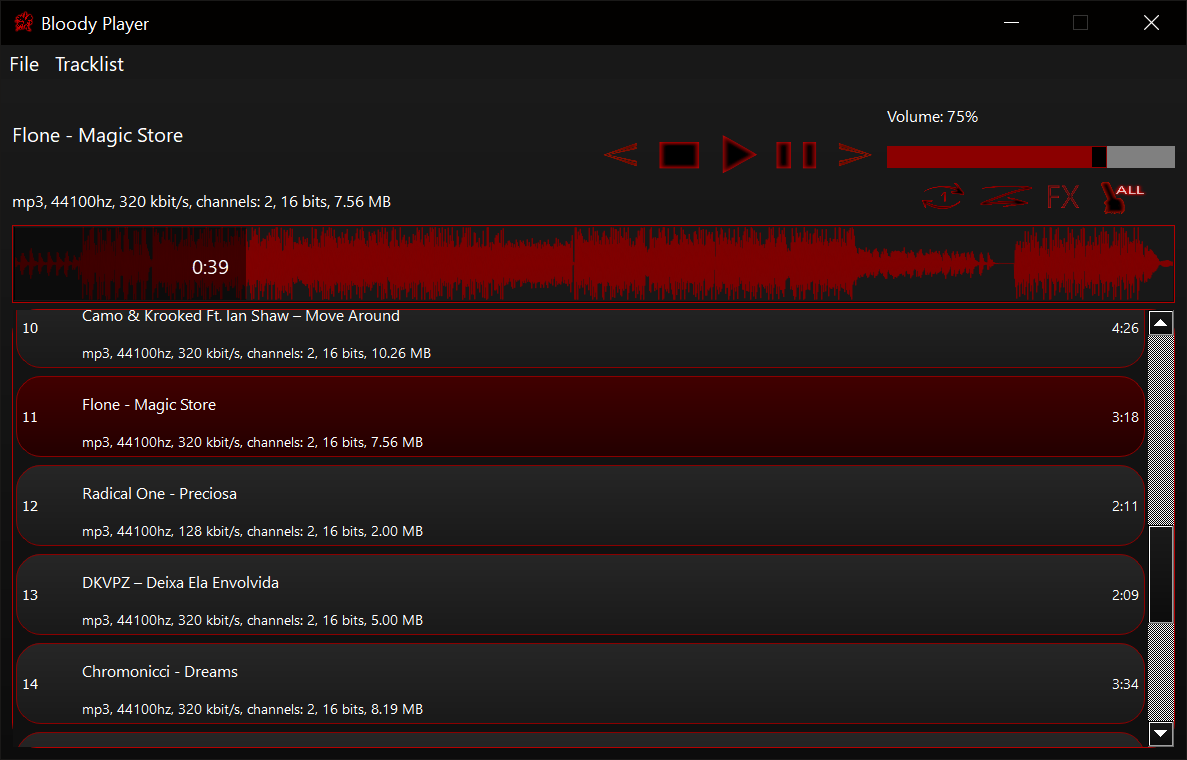
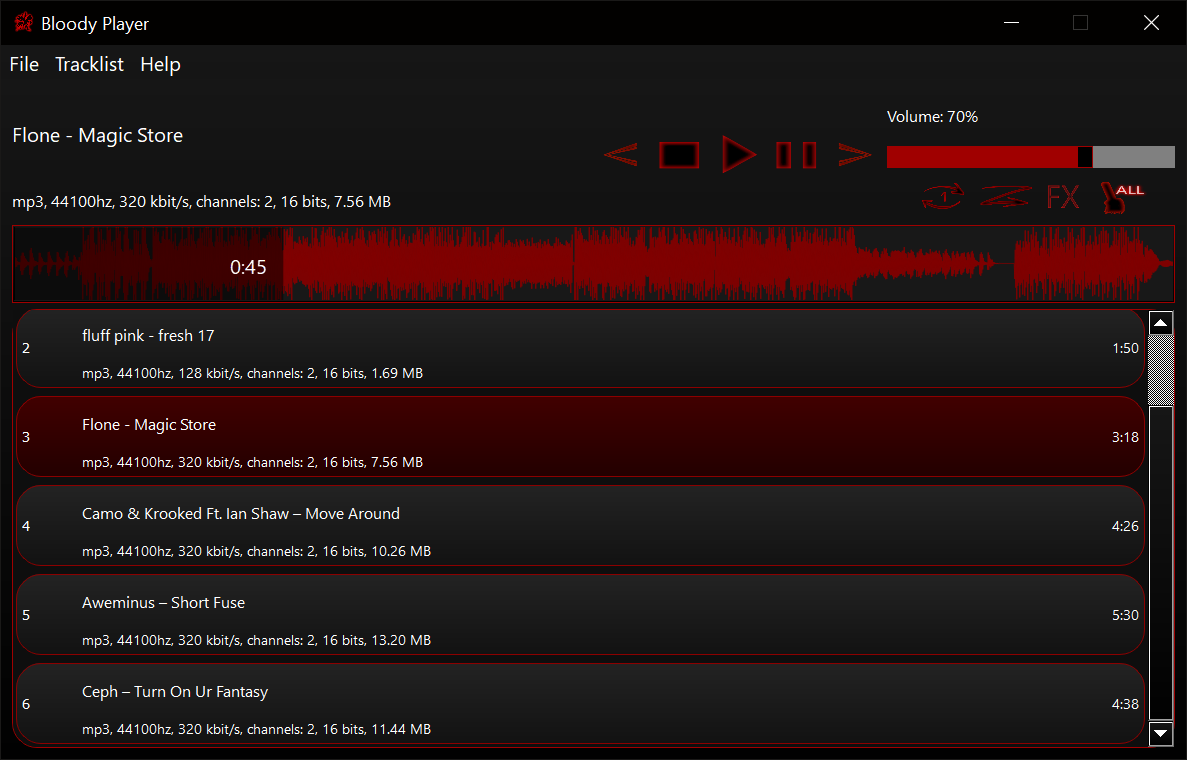
Seems like a rare crash that may occur after a track(s) was loaded has been fixed.

diff --git a/src/Model/AudioService/audioservice.cpp b/src/Model/AudioService/audioservice.cpp
@@ -160,14 +160,16 @@ void AudioService::FMODinit()
 
 void AudioService::addTrack(const wchar_t *pFilePath)
 {
-    Track* pNewTrack = new Track(pMainWindow, pSystem);
-    if ( !pNewTrack->setTrack(pFilePath) )
+    Track* pNewTrack = new Track(pFilePath, pMainWindow, pSystem);
+    if ( !pNewTrack->setupTrack() )
     {
         delete pNewTrack;
         return;
     }
 
     std::wstring wPathStr(pFilePath);
+
+
 
     // Get track name
     size_t iNameStartIndex = 0;
@@ -179,12 +181,15 @@ void AudioService::addTrack(const wchar_t *pFilePath)
             break;
         }
     }
+
     std::wstring trackName = L"";
     for (size_t i = iNameStartIndex; i < wPathStr.size() - 4; i++)
     {
         trackName += wPathStr[i];
     }
     if (trackName.back() == L'.') trackName.pop_back();
+
+
 
     // Get track info
     std::wstring trackInfo = L"";
@@ -224,12 +229,14 @@ void AudioService::addTrack(const wchar_t *pFilePath)
     trackInfo += stream.str();
     trackInfo += L" MB";
 
+
+
     // Get track time
+    std::string trackTime = "";
     unsigned int iMS = pNewTrack->getLengthInMS();
     unsigned int iSeconds = iMS / 1000;
     unsigned int iMinutes = iSeconds / 60;
     iSeconds -= (iMinutes * 60);
-    std::string trackTime = "";
     trackTime += std::to_string(iMinutes);
     trackTime += ":";
     if (iSeconds < 10) trackTime += "0";
@@ -278,12 +285,14 @@ void AudioService::addTracks(std::vector<wchar_t*> paths)
             paths.pop_back();
         }
 
-        pMainWindow->showMessageBox(true, std::to_string(removeCount) + std::string(" tracks were rejected because with them we will exceed maximum"
-                                                                                    " amount of tracks in the tracklist which is " + std::to_string(MAX_CHANNELS)));
+        pMainWindow->showMessageBox(true, "Maximum tracks exceeded." + std::to_string(removeCount) + " tracks have not been added.");
     }
 
 
-    pMainWindow->showWaitWindow("Please wait.\nAdding your music.");
+
+    pMainWindow->showWaitWindow("Please wait...\n"
+                                "Adding your music.");
+
 
     // Get amount of CPU threads
     // In every CPU thread we will add tracks
@@ -295,35 +304,38 @@ void AudioService::addTracks(std::vector<wchar_t*> paths)
     int* allCount = new int(0);
 
 
-    if (paths.size() >= threads*2)
+    if (paths.size() >= threads * 2)
     {
         size_t iPathsOnOneThread = paths.size() / threads;
         size_t iCurrentPos = 0;
 
-        std::vector<wchar_t*> onThread;
+        size_t iStart, iStop;
         for (size_t i = 0; i < paths.size(); i++)
         {
             if (iCurrentPos < iPathsOnOneThread)
             {
-                onThread.push_back(paths[i]);
+                if (iCurrentPos == 0) iStart = i;
                 iCurrentPos++;
             }
 
             if (iCurrentPos == iPathsOnOneThread)
             {
+                iStop = i;
+
                 threadsDoneFlags.push_back(new bool(false));
-                std::thread t (&AudioService::threadAddTracks, this, onThread, threadsDoneFlags.back(), allCount, static_cast<int>(paths.size()));
+                std::thread t (&AudioService::threadAddTracks, this, &paths, iStart, iStop, threadsDoneFlags.back(), allCount, static_cast<int>(paths.size()));
                 t.detach();
 
-                onThread.clear();
                 iCurrentPos = 0;
             }
         }
 
-        if (onThread.size() > 0)
+        if (iCurrentPos > 0)
         {
+            iStop = paths.size() - 1;
+
             threadsDoneFlags.push_back(new bool(false));
-            std::thread t (&AudioService::threadAddTracks, this, onThread, threadsDoneFlags.back(), allCount, static_cast<int>(paths.size()));
+            std::thread t (&AudioService::threadAddTracks, this, &paths, iStart, iStop, threadsDoneFlags.back(), allCount, static_cast<int>(paths.size()));
             t.detach();
         }
     }
@@ -334,6 +346,8 @@ void AudioService::addTracks(std::vector<wchar_t*> paths)
         for (size_t i = 0; i < paths.size(); i++)
         {
             addTrack(paths[i]);
+
+            pMainWindow->setProgress( static_cast<int>(100.0f * ( i + 1 ) / paths.size()) );
         }
 
         delete allCount;
@@ -367,7 +381,6 @@ void AudioService::addTracks(std::vector<wchar_t*> paths)
 
     }while(bDone == false);
 
-
     delete allCount;
 
     for (size_t i = 0; i < threadsDoneFlags.size(); i++)
@@ -377,11 +390,9 @@ void AudioService::addTracks(std::vector<wchar_t*> paths)
 
     pMainWindow->hideWaitWindow();
 
-    // Wait a little for all track widgets to show
-    std::this_thread::sleep_for(std::chrono::milliseconds(100));
-    if (tracks.size() > 0) pMainWindow->setFocusOnTrack(tracks.size() - 1);
-
     mtxTracksVec.unlock();
+
+    pMainWindow->showAllTracks();
 }
 
 void AudioService::playTrack(size_t iTrackIndex, bool bDontLockMutex)
@@ -1459,15 +1470,18 @@ int AudioService::interpret24bitAsInt32(char byte0, char byte1, char byte2)
     return ( (byte0 << 24) | (byte1 << 16) | (byte2 << 8) ) >> 8;
 }
 
-void AudioService::threadAddTracks(std::vector<wchar_t*> paths, bool* done, int* allCount, int all)
+void AudioService::threadAddTracks(std::vector<wchar_t*>* paths, size_t iStart, size_t iStop, bool* done, int* allCount, int all)
 {
-    for (size_t i = 0; i < paths.size(); i++)
+    for (size_t i = iStart; i <= iStop; i++)
     {
-        addTrack(paths[i]);
+        addTrack(paths->operator[](i));
+
 
         mtxLoadThreadDone.lock();
+
         *allCount += 1;
         pMainWindow->setProgress( *allCount *  100 / all);
+
         mtxLoadThreadDone.unlock();
     }
 

diff --git a/src/View/MainWindow/mainwindow.cpp b/src/View/MainWindow/mainwindow.cpp
@@ -13,6 +13,7 @@
 
 // STL
 #include <cmath>
+#include <thread>
 
 // Custom
 #include "../src/Controller/controller.h"
@@ -129,6 +130,7 @@ MainWindow::MainWindow(QWidget *parent) :
     connect(pFXWindow, &FXWindow::signalChangeEchoVolume,   this, &MainWindow::slotSetEchoVolume);
     connect(pFXWindow, &FXWindow::signalOpenVST,            this, &MainWindow::slotLoadVST);
     connect(pFXWindow, &FXWindow::signalShowVST,            this, &MainWindow::slotShowVST);
+    connect(this, &MainWindow::signalShowAllTracks,         this, &MainWindow::slotShowAllTracks);
     connect(this, &MainWindow::signalResetAll,              pFXWindow, &FXWindow::slotResetAll);
     connect(this, &MainWindow::signalSetVSTName,            pFXWindow, &FXWindow::slotSetVSTName);
 
@@ -154,6 +156,11 @@ void MainWindow::showMessageBox(bool errorBox, std::string text)
 void MainWindow::addNewTrack(std::wstring trackName, std::wstring trackInfo, std::string trackTime)
 {
     emit signalAddNewTrack(trackName, trackInfo, trackTime);
+}
+
+void MainWindow::showAllTracks()
+{
+    emit signalShowAllTracks();
 }
 
 void MainWindow::removePlayingOnTrack(size_t iTrackIndex)
@@ -246,6 +253,9 @@ void MainWindow::setCurrentPos(double x, std::string time)
 
 void MainWindow::setFocusOnTrack(size_t index)
 {
+    // Wait a little for all track widgets to show
+    std::this_thread::sleep_for(std::chrono::milliseconds(150));
+
     ui->scrollArea->ensureWidgetVisible(tracks[index], 50, 50);
 }
 
@@ -407,22 +417,39 @@ void MainWindow::slotSetNumber(size_t iNumber)
 
 void MainWindow::slotAddNewTrack(std::wstring trackName, std::wstring trackInfo, std::string trackTime)
 {
+    mtxAddTrackWidget.lock();
+
     TrackWidget* pNewTrack = new TrackWidget( QString::fromStdWString(trackName), QString::fromStdWString(trackInfo), QString::fromStdString(trackTime) );
     connect(pNewTrack, &TrackWidget::signalDoubleClick, this, &MainWindow::slotClickedOnTrack);
     connect(pNewTrack, &TrackWidget::signalSelected,    this, &MainWindow::slotTrackSelected);
     connect(pNewTrack, &TrackWidget::signalDelete,      this, &MainWindow::deleteSelectedTrack);
     connect(pNewTrack, &TrackWidget::signalMoveUp,      this, &MainWindow::slotMoveUp);
     connect(pNewTrack, &TrackWidget::signalMoveDown,    this, &MainWindow::slotMoveDown);
+
+    pNewTrack->setVisible(false);
     ui->verticalLayout_Tracks->addWidget(pNewTrack);
 
     tracks.push_back(pNewTrack);
     pNewTrack->setNumber( tracks.size() );
-    pNewTrack->show();
+    //pNewTrack->show();
 
     if (tracks.size() == 1)
     {
         ui->horizontalSlider->setEnabled(true);
     }
+
+    mtxAddTrackWidget.unlock();
+}
+
+void MainWindow::slotShowAllTracks()
+{
+    for (size_t i = 0; i < tracks.size(); i++)
+    {
+        tracks[i]->setVisible(true);
+    }
+
+    std::thread focus(&MainWindow::setFocusOnTrack, this, tracks.size() - 1);
+    focus.detach();
 }
 
 void MainWindow::slotShowWaitWindow(QString text)

diff --git a/src/View/MainWindow/mainwindow.h b/src/View/MainWindow/mainwindow.h
@@ -8,6 +8,7 @@
 
 // STL
 #include <string>
+#include <mutex>
 #include <vector>
 
 
@@ -66,6 +67,7 @@ signals:
     // Other
 
         void     signalAddNewTrack         (std::wstring trackName,  std::wstring trackInfo,  std::string trackTime);
+        void     signalShowAllTracks       ();
         void     signalSetTrack            (size_t iTrackIndex,      bool bClear = false);
         void     signalShowMessageBox      (bool errorBox,           std::string text);
         void     signalSetNumber           (size_t iNumber);
@@ -117,6 +119,7 @@ public:
     // Other
 
         void     addNewTrack               (std::wstring trackName,  std::wstring trackInfo,  std::string trackTime);
+        void     showAllTracks             ();
         void     showMessageBox            (bool errorBox,           std::string text);
         void     setPlayingOnTrack         (size_t iTrackIndex,      bool bClear = false);
         void     removePlayingOnTrack      (size_t iTrackIndex);
@@ -228,6 +231,7 @@ private slots:
     // Other
 
         void  slotAddNewTrack                      (std::wstring trackName,  std::wstring trackInfo,  std::string trackTime);
+        void  slotShowAllTracks                    ();
         void  slotSetTrack                         (size_t iTrackIndex,      bool bClear = false);
         void  slotShowMessageBox                   (bool errorBox,           std::string text);
         void  slotSetNumber                        (size_t iNumber);
@@ -245,6 +249,9 @@ private:
     QSystemTrayIcon* pTrayIcon;
     QCPItemText*     pGraphTextTrackTime;
     QCPItemRect*     backgnd;
+
+
+    std::mutex       mtxAddTrackWidget;
 
 
     int iSelectedTrackIndex;

diff --git a/src/Model/Track/track.cpp b/src/Model/Track/track.cpp
@@ -10,11 +10,11 @@
 
 #include <windows.h>
 
-Track::Track(MainWindow *pMainWindow, FMOD::System* pSystem)
+Track::Track(const wchar_t* pFilePath, MainWindow *pMainWindow, FMOD::System* pSystem)
 {
     pChannel          = nullptr;
     pSound            = nullptr;
-    pFilePath         = nullptr;
+    this->pFilePath   = pFilePath;
 
     this->pMainWindow = pMainWindow;
     this->pSystem     = pSystem;
@@ -32,7 +32,7 @@ Track::Track(MainWindow *pMainWindow, FMOD::System* pSystem)
 
 
 
-bool Track::setTrack(const wchar_t* pFilePath)
+bool Track::setupTrack()
 {
     // This function creates a track (pSound) in the FMOD system.
 
@@ -52,8 +52,6 @@ bool Track::setTrack(const wchar_t* pFilePath)
         return false;
     }
 
-    // On this point, we are created the sound and can save path to it.
-    this->pFilePath = pFilePath;
 
     // Get audio format (mp3, wav, flac, ogg and etc.)
     FMOD_SOUND_TYPE type;

diff --git a/src/Model/Track/track.h b/src/Model/Track/track.h
@@ -28,7 +28,7 @@ class Track
 
 public:
 
-    Track(MainWindow* pMainWindow, FMOD::System* pSystem);
+    Track(const wchar_t* pFilePath, MainWindow* pMainWindow, FMOD::System* pSystem);
 
 
 
@@ -36,7 +36,7 @@ public:
 
     // Start/stop functions
 
-        bool           setTrack               (const wchar_t* pFilePath);
+        bool           setupTrack             ();
         bool           playTrack              (float fVolume);
         bool           pauseTrack             ();
         bool           stopTrack              ();

diff --git a/src/Model/AudioService/audioservice.h b/src/Model/AudioService/audioservice.h
@@ -102,7 +102,7 @@ private:
     void   FMODinit        ();
 
     // Functions for execution in a separete thread
-    void   threadAddTracks (std::vector<wchar_t*> paths,  bool* done,  int* allCount,  int all);
+    void   threadAddTracks (std::vector<wchar_t*>* paths, size_t iStart, size_t iStop, bool* done,  int* allCount,  int all);
     void   addTrack        (const wchar_t* pFilePath);
 
     // Will switch to next track if one's ended
